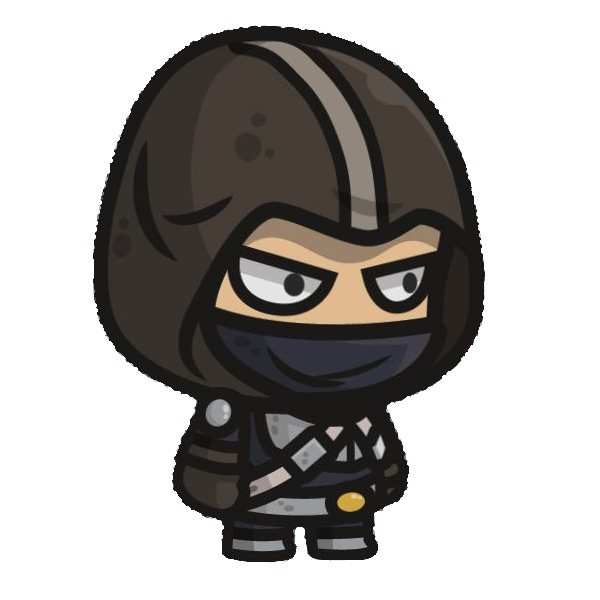
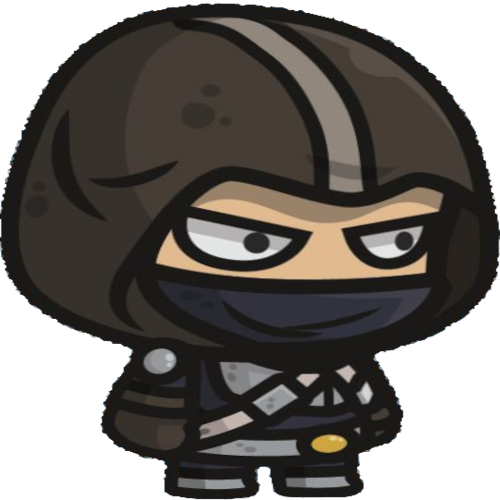
Capped game loop to 1/60s refresh rate fixed collision fixed sprite drawing position for Hero and Monster Added middle cross to check if the hero is really drawn in the middle image of the monster is no longer loaded on every frame, it's not a attribute of monster

diff --git a/src/model/PacmanGame.java b/src/model/PacmanGame.java
@@ -102,6 +102,8 @@ public class PacmanGame implements Game {
 		Graphics2D crayon = (Graphics2D) im.getGraphics();
 		crayon.setColor(Color.red);
 		crayon.setFont(font);
+		crayon.drawLine(0,maze.getHeight()/2,maze.getWidth(),maze.getHeight()/2);
+		crayon.drawLine(maze.getWidth()/2,0,maze.getWidth()/2,maze.getHeight());
 		crayon.drawString(Integer.toString(time), maze.getWidth()-((sizeOfPolice+maze.WIDTH)/2), (sizeOfPolice/2 + maze.HEIGHT)/2);
 		update();
 	}
@@ -115,19 +117,43 @@ public class PacmanGame implements Game {
 		}
 	}
 
+	/***
+	 * check the collision to a wall where the player is going
+	 * @param x amount of x added by the move
+	 * @param y amount of y added by the move
+	 * @return
+	 */
 	private boolean check(int x, int y){
 			//LEFT
 		if(x < 0 && y == 0) {
-			return !maze.isAWall(hero.getPosition().x + x, hero.getPosition().y + y + hero.getHeight()/2);
+			return (!maze.isAWall(
+					hero.getPosition().x + x - hero.getWidth() /2,
+					hero.getPosition().y + y - hero.getHeight()/2
+			) &&!maze.isAWall(
+					hero.getPosition().x + x - hero.getWidth() /2 ,
+					hero.getPosition().y + y + hero.getHeight()/2
+			));
 			//RIGHT
 		}else if(x > 0 && y == 0 ){
-			return !maze.isAWall(hero.getPosition().x + x +hero.getWidth(), hero.getPosition().y + y + hero.getHeight()/2);
+			return (!maze.isAWall(
+					hero.getPosition().x + x + hero.getWidth() /2,
+					hero.getPosition().y + y - hero.getHeight()/2
+			) &&!maze.isAWall(
+					hero.getPosition().x + x + hero.getWidth() /2 ,
+					hero.getPosition().y + y + hero.getHeight()/2
+			));
 			//DOWN
 		}else if(x == 0 && y > 0){
-			return !maze.isAWall(hero.getPosition().x + x +hero.getWidth()/2, hero.getPosition().y + y + hero.getHeight());
+			return !maze.isAWall(
+					hero.getPosition().x + x,
+					hero.getPosition().y + y + hero.getHeight()/2
+			);
 			//UP
 		}else{
-			return !maze.isAWall(hero.getPosition().x + x +hero.getWidth()/2, hero.getPosition().y + y);
+			return !maze.isAWall(
+					hero.getPosition().x + x ,
+					hero.getPosition().y + y - hero.getHeight()/2
+			);
 		}
 	}
 

diff --git a/src/engine/GameEngineGraphical.java b/src/engine/GameEngineGraphical.java
@@ -1,6 +1,7 @@
 package engine;
 
 import java.io.IOException;
+import java.sql.Time;
 
 /**
  * @author Horatiu Cirstea, Vincent Thomas
@@ -55,17 +56,20 @@ public class GameEngineGraphical {
 
 		// creation de l'interface graphique
 		this.gui = new GraphicalInterface(this.gamePainter,this.gameController);
-
+		long fpsCap = System.currentTimeMillis();
 		// boucle de game
 		while (!this.game.isFinished()) {
-			// demande controle utilisateur
-			Cmd c = this.gameController.getCommand();
-			// fait evoluer le game
-			this.game.evolve(c);
-			// affiche le game
-			this.gui.paint();
-			// met en attente
-			Thread.sleep(5);
+			// drawing of the screen every 0.016s = 16.6ms
+			if(System.currentTimeMillis() - fpsCap > (1000/60)) {
+				// demande controle utilisateur
+				Cmd c = this.gameController.getCommand();
+				// fait evoluer le game
+				this.game.evolve(c);
+				// affiche le game
+				this.gui.paint();
+				// rest fpscap timer
+				fpsCap = System.currentTimeMillis();
+			}
 		}
 		System.exit(0);
 	}

diff --git a/src/model/game/monster/NormalMonster.java b/src/model/game/monster/NormalMonster.java
@@ -8,16 +8,17 @@ import java.io.IOException;
 
 public class NormalMonster extends Monster {
 
-    public NormalMonster(Point point, int width, int height) {
+    public NormalMonster(Point point, int width, int height) throws IOException{
         super(point, width, height);
         speed = 3;
+        im = ImageIO.read(new File("resources/images/normalmonster.png"));
+
     }
 
     @Override
     public void draw(BufferedImage im) throws IOException {
         Graphics2D crayon = (Graphics2D) im.getGraphics();
-        im = ImageIO.read(new File("resources/images/normalmonster.png"));
-        crayon.drawImage(im,position.x,position.y,width,height,null);
+        crayon.drawImage(this.im,position.x-(width/2),position.y-(height/2),width,height,null);
     }
 
 

diff --git a/src/model/game/Maze.java b/src/model/game/Maze.java
@@ -17,7 +17,7 @@ public class Maze {
     public final int WIDTH = 32;
     public final int HEIGHT = 32;
 
-    public Maze(){
+    public Maze() throws IOException {
         listFloor = new ArrayList<>();
         listMonsters = new ArrayList<>();
         listMonsters.add(new NormalMonster(new Point(100,100),20,20));
@@ -66,6 +66,7 @@ public class Maze {
 
     public Floor getFloor(int x, int y){
         for (Floor floor: listFloor) {
+
             if(floor.getPosition().x <= x && floor.getPosition().x+WIDTH >= x
             && floor.getPosition().y <= y && floor.getPosition().y+HEIGHT >= y){
                 return floor;

diff --git a/src/model/game/monster/Monster.java b/src/model/game/monster/Monster.java
@@ -12,6 +12,7 @@ public abstract class Monster {
     protected int width;
     protected int height;
     protected int speed;
+    protected BufferedImage im;
     private int moveValue = 1;
 
     public Monster(Point point, int width, int height){
@@ -20,7 +21,9 @@ public abstract class Monster {
         this.height = height;
     }
 
-    abstract public void draw(BufferedImage im) throws IOException;
+    public void draw(BufferedImage im) throws IOException{
+
+    };
 
     public void move(Maze maze, int wallWidth, int wallHeight){
             // RIGHT

diff --git a/src/model/PacmanPainter.java b/src/model/PacmanPainter.java
@@ -19,8 +19,8 @@ public class PacmanPainter implements GamePainter {
 	/**
 	 * la taille des cases
 	 */
-	protected static int WIDTH = 750;
-	protected static int HEIGHT = 500;
+	protected static int WIDTH;
+	protected static int HEIGHT;
 
 	/**
 	 * appelle constructeur parent
@@ -37,6 +37,7 @@ public class PacmanPainter implements GamePainter {
 	@Override
 	public void draw(BufferedImage im) throws IOException {
 		game.draw(im);
+
 	}
 
 	@Override

diff --git a/src/model/game/Hero.java b/src/model/game/Hero.java
@@ -24,7 +24,7 @@ public class Hero {
 
     public void draw(BufferedImage im){
         Graphics2D crayon = (Graphics2D) im.getGraphics();
-        crayon.drawImage(this.im,position.x,position.y,width,height,null);
+        crayon.drawImage(this.im,position.x-(width/2),position.y-(height/2),width,height,null);
     }
 
     public void move(int x, int y){
